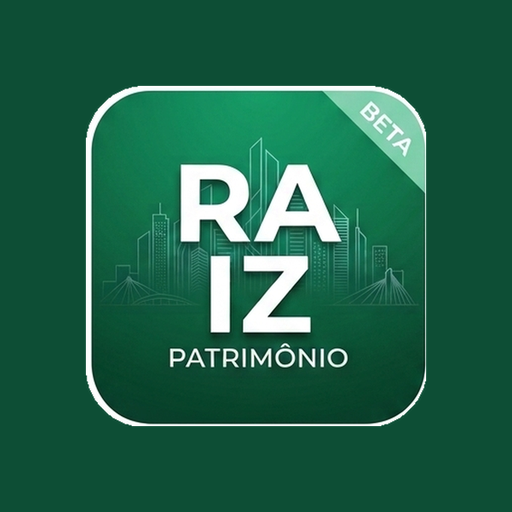
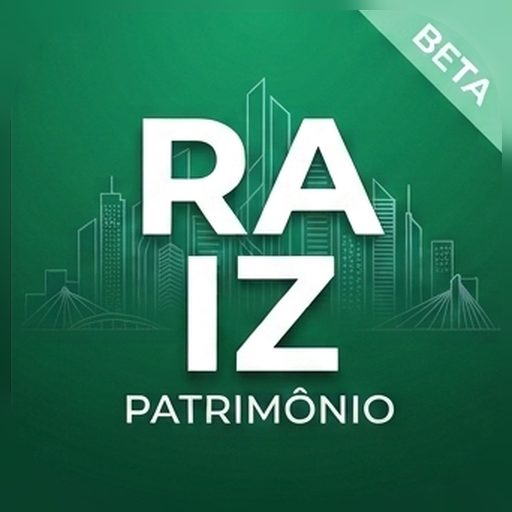
patrimonio v1.203.0 — 4 arquivo(s)
index.html (v1.203.0)
manifest.json
icon-maskable-192.png
icon-maskable-512.png

diff --git a/index.html b/index.html
@@ -6,9 +6,61 @@
    (base derivada do RUMO v7.4.2 — histórico de versões anteriores
    preservado abaixo para referência técnica)
 
-   VERSÃO: Beta v1.202.0
-   LINHAS: 14746
+   VERSÃO: Beta v1.203.0
+   LINHAS: 14844
    DATA: 18/09/2026
+   NOVIDADES (Beta v1.203.0) — execução da demanda f60fe32e (achados
+   deixados em aberto na entrega da v1.202.0) + 1 bug real achado pelo
+   Nicola em print: (1) manifest.json: background_color/theme_color
+   ("#0f172a"/"#1e40af", sobra de paleta antiga, não batiam com nenhum
+   token do Design System) trocados pra "#1e3a32" (--pine, a mesma cor
+   de fundo real da splash/header — --color-emerald-900 já é um alias
+   de --pine). (2) botão de IA da splash ganhou o chip de convite "Fale
+   com a Raiz IA" do protótipo aprovado (#splash-ia-tooltip): aparece só
+   na 1ª vez que a pessoa vê a splash NESTE aparelho (chaveLocal, mesmo
+   padrão de outras flags por instalação), some sozinho depois de ~6s ou
+   ao tocar em qualquer lugar da tela; sem localStorage (aba anônima),
+   simplesmente não aparece — não quebra o botão. Demanda f60fe32e
+   encerrada (fn_demanda_encerrar) com os 2 itens resolvidos. (3) BUG
+   REAL, achado root-cause (print do Nicola: ficha do ativo "Av. Faria
+   Lima, 3000" mostrando 2 chips "Documento" idênticos na aba Anexos em
+   vez do nome de cada categoria) — js/cofre-api.js listarCategorias()
+   filtrava só `cliente_id = clienteId`, que no Postgres NUNCA bate com
+   `cliente_id IS NULL`; as 34 categorias hoje cadastradas são TODAS
+   globais (catálogo padrão Raiz, nenhum cliente ainda tem categoria
+   própria), então estado.categorias vinha SEMPRE vazio pra QUALQUER
+   tenant — todo documento caía no fallback genérico "Documento"
+   (afetava também o sheet "Categorizar", que abria com a lista de
+   ações vazia). Corrigido pro mesmo `.or('cliente_id.is.null,cliente_id.eq.…')`
+   já usado em ativo_tipos/cofre_controle_subtipos/cofre_modelos_item_controle
+   — ver changelog completo em cofre-api.js v1.37.1. QUA-01: procurado o
+   mesmo padrão (`.eq('cliente_id'` sem `.or()`) no resto do arquivo —
+   nenhuma outra ocorrência do mesmo bug encontrada. (4) ÍCONE MASKABLE
+   v2 — Nicola testou a v1.202.0 no aparelho real e reportou que o
+   selo interno ainda aparecia como um "quadrado com cantos
+   arredondados" visível por cima do verde (a v1.202.0 só tinha
+   encolhido o selo pra 66,7% do canvas, mas não removeu a borda do
+   próprio selo). icon-maskable-192.png/512.png recompostos: máscara
+   geométrica "manter" (retângulo arredondado calculado a partir do
+   raio real de corte da máscara adaptativa do Android) preserva 100%
+   dos pixels internos (texto "RAIZ/PATRIMÔNIO", skyline, fita "BETA"
+   intactos) e substitui só o anel/cantos da borda por extrapolação do
+   próprio verde vizinho (nearest-neighbor + suavização), sem branco/
+   transparência residual — resultado é uma superfície verde uniforme
+   sem nenhuma borda interna visível, testado sob máscara circular e
+   squircle. (5) TELA "escolha qual entrar" (multi-empresa) — Nicola
+   reportou (print) o botão dourado de IA sobrepondo o título "GESTÃO
+   PATRIMONIAL INTELIGENTE" quando a lista de empresas era longa: o
+   botão é `position:absolute` fixo na tela, mas a splash inteira (foto+
+   título+lista) rolava por baixo dele como uma coluna só, então o
+   header acabava passando por trás do botão. Corrigido sem redesenhar
+   o botão: nova classe `.splash-lista-ativa` (aplicada só quando a
+   seleção de empresa está visível) transforma o layout em cabeçalho
+   fixo + rodapé fixo + só `#lista-selecao-empresa` rola internamente
+   (flex `min-height:0`), com `scrollbar-width:none`/`::-webkit-
+   scrollbar{display:none}` pra não mostrar barra de rolagem; removida
+   também a borda visível do `<select>` de filtro de planos. Validado
+   via Playwright com lista de 12 empresas simulando rolagem no meio.
    NOVIDADES (Beta v1.202.0) — 3 ajustes explícitos do Nicola na tela de
    abertura (splash/login), proposta+protótipo aprovados em sessão
    separada de UX antes desta entrega: (1) ícone do app (icon-maskable-
@@ -120,18 +172,8 @@
    (retomada em ccd04ad4). Achado incidental (QUA): dev_carregarAcessos/
    dev_limparAcessos eram código morto (array `acessos` permanentemente
    vazio desde a aposentadoria do Apps Script) — removidos junto.
-   NOVIDADES (Beta v1.198.0) — Caminho B, fechamento do escopo "tipo de
-   imóvel" das minutas: tipo_ativo (categoria macro) é grosso demais pra
-   isso (só 2 valores pra imóvel), o nível certo é tipo_detalhe_id — mesma
-   granularidade fina do tipos_imovel legado (Casa, Loja, Sala...), catálogo
-   novo (ativo_tipos) deduplicado. minutas_contrato ganhou tipo_detalhe_id;
-   as 3 minutas ativas com escopo='tipo_imovel' foram remapeadas por nome
-   (Sala Comercial→Sala, consolidado no catálogo novo); fn_resolver_minuta_id
-   ajustada; leitura/escrita de minuta (index.html) e o seletor/casamento em
-   js/minutas.js (v1.1.0) passam a usar o catálogo novo. Detalhe: memória do
-   projeto, área "Caminho B".
    ------------------------------------------------------------------
-   Versões anteriores (v1.197.0 … v1.197.0): CHANGELOG_APP.md, na raiz do
+   Versões anteriores (v1.198.0 … v1.198.0): CHANGELOG_APP.md, na raiz do
    repositório — o gerar_versoes.py rola pra lá automaticamente tudo além
    das 5 versões mais recentes deste cabeçalho.
 
@@ -155,7 +197,7 @@
          O navegador aplica o mapa também aos imports estáticos dentro dos
          módulos (cofre-app.js → ./cofre-api.js etc.). -->
     <!-- RZ-IMPORTMAP:INICIO -->
-    <script type="importmap">{"imports":{"./js/cadastros.js":"./js/cadastros.js?v=1.0.1","./js/financeiro.js":"./js/financeiro.js?v=1.7.2","./js/contratos.js":"./js/contratos.js?v=1.6.0","./js/minutas.js":"./js/minutas.js?v=1.0.0","./js/vitrine.js":"./js/vitrine.js?v=1.2.0","./js/imoveis.js":"./js/imoveis.js?v=1.5.0","./js/cofre-api.js":"./js/cofre-api.js?v=1.37.0","./js/cofre-app.js":"./js/cofre-app.js?v=1.32.3","./js/cofre-ativos.js":"./js/cofre-ativos.js?v=1.45.0","./js/cofre-controles.js":"./js/cofre-controles.js?v=1.25.0","./js/cofre-documentos.js":"./js/cofre-documentos.js?v=2.15.0","./js/cofre-imagem.js":"./js/cofre-imagem.js?v=1.1.0","./js/cofre-estado.js":"./js/cofre-estado.js?v=1.5.0","./js/cofre-navegacao.js":"./js/cofre-navegacao.js?v=1.7.1","./js/cofre-ui.js":"./js/cofre-ui.js?v=1.3.0","./js/cofre-validacoes.js":"./js/cofre-validacoes.js?v=2.0.0","./js/comum-licenca.js":"./js/comum-licenca.js?v=1.3.1","./js/comum-minha-empresa.js":"./js/comum-minha-empresa.js?v=1.5.0","./js/comum-pessoas.js":"./js/comum-pessoas.js?v=1.201.0","./js/comum-sobre.js":"./js/comum-sobre.js?v=1.3.0","./js/comum-endereco.js":"./js/comum-endereco.js?v=1.0.0","./js/ativos/ativos-boot.js":"./js/ativos/ativos-boot.js?v=1.3.0","./js/ativos/ativos-markup.js":"./js/ativos/ativos-markup.js?v=1.40.0"}}</script>
+    <script type="importmap">{"imports":{"./js/cadastros.js":"./js/cadastros.js?v=1.0.1","./js/financeiro.js":"./js/financeiro.js?v=1.7.2","./js/contratos.js":"./js/contratos.js?v=1.6.0","./js/minutas.js":"./js/minutas.js?v=1.0.0","./js/vitrine.js":"./js/vitrine.js?v=1.2.0","./js/imoveis.js":"./js/imoveis.js?v=1.5.0","./js/cofre-api.js":"./js/cofre-api.js?v=1.37.1","./js/cofre-app.js":"./js/cofre-app.js?v=1.32.3","./js/cofre-ativos.js":"./js/cofre-ativos.js?v=1.45.0","./js/cofre-controles.js":"./js/cofre-controles.js?v=1.25.0","./js/cofre-documentos.js":"./js/cofre-documentos.js?v=2.15.0","./js/cofre-imagem.js":"./js/cofre-imagem.js?v=1.1.0","./js/cofre-estado.js":"./js/cofre-estado.js?v=1.5.0","./js/cofre-navegacao.js":"./js/cofre-navegacao.js?v=1.7.1","./js/cofre-ui.js":"./js/cofre-ui.js?v=1.3.0","./js/cofre-validacoes.js":"./js/cofre-validacoes.js?v=2.0.0","./js/comum-licenca.js":"./js/comum-licenca.js?v=1.3.1","./js/comum-minha-empresa.js":"./js/comum-minha-empresa.js?v=1.5.0","./js/comum-pessoas.js":"./js/comum-pessoas.js?v=1.201.0","./js/comum-sobre.js":"./js/comum-sobre.js?v=1.3.0","./js/comum-endereco.js":"./js/comum-endereco.js?v=1.0.0","./js/ativos/ativos-boot.js":"./js/ativos/ativos-boot.js?v=1.3.0","./js/ativos/ativos-markup.js":"./js/ativos/ativos-markup.js?v=1.40.0"}}</script>
     <!-- RZ-IMPORTMAP:FIM -->
 
     <!-- ===== PWA: permite "instalar" o app no celular (Android e iPhone) ===== -->
@@ -440,6 +482,26 @@
             0%   { transform:scale(1); opacity:.5; }
             100% { transform:scale(1.9); opacity:0; }
         }
+
+        /* v1.203.0 — BUG REAL achado pelo Nicola em print: com a lista de
+           "escolha a empresa" longa (9+ itens), a splash inteira rolava
+           (era 1 coluna só, centralizada) e o botão de IA — position:
+           absolute relativo à splash, não ao conteúdo — ficava PARADO na
+           tela enquanto o cabeçalho/foto rolavam por baixo dele,
+           sobrepondo o texto. Pedido explícito: cabeçalho + foto + rodapé
+           + filtro fixos, só a LISTA de empresas rola, sem borda de
+           componente nem barra de rolagem visível. Classe aplicada só
+           durante mostrarSelecaoEmpresa() (removida ao sair dela); login
+           e "definir senha" continuam exatamente como sempre foram —
+           coluna curta, centralizada, sem essa divisão em 3 regiões. */
+        #splash-screen.splash-lista-ativa{ overflow:hidden; justify-content:flex-start; }
+        #splash-screen.splash-lista-ativa #splash-conteudo{ flex:1; min-height:0; display:flex; flex-direction:column; }
+        #splash-screen.splash-lista-ativa #area-selecao-empresa{ flex:1; min-height:0; display:flex; flex-direction:column; }
+        #splash-screen.splash-lista-ativa #lista-selecao-empresa{
+            flex:1; min-height:0; overflow-y:auto;
+            scrollbar-width:none; -ms-overflow-style:none; /* Firefox/IE — sem barra visível */
+        }
+        #splash-screen.splash-lista-ativa #lista-selecao-empresa::-webkit-scrollbar{ display:none; } /* Chrome/Safari/WebView */
 
 
         /* Barra inferior (v1.39.8) — indicador do item ativo: barrinha fina no
@@ -1326,12 +1388,21 @@
              brass + sparkles do .rz-hdr .rz-ia pós-login (REGRAS §15/16) —
              ver CSS de #btn-falar-bot-splash acima ("v1.202.0") pra
              posição/animação. Handler e telemetria (abrirBotWhatsapp,
-             eventos_landing) intocados — só visual e posição mudaram. -->
+             eventos_landing) intocados — só visual e posição mudaram.
+             v1.203.0 — chip de convite (#splash-ia-tooltip) some/aparece
+             via JS em window.onload (chaveLocal, 1ª vez só neste
+             aparelho); some sozinho depois de alguns segundos ou ao tocar
+             no botão. Sem JS/localStorage, fica oculto pra sempre — nunca
+             atrapalha o botão em si. -->
+        <div id="splash-ia-tooltip" class="hidden" style="position:absolute; top:20px; right:118px; z-index:10; background:#fff; color:#17211e; font-size:12px; font-weight:600; border-radius:999px; padding:8px 14px; box-shadow:0 1px 2px rgba(23,33,30,.06), 0 4px 14px rgba(23,33,30,.05); white-space:nowrap;">
+            Fale com a Raiz IA
+            <div style="position:absolute; right:-5px; top:50%; transform:translateY(-50%) rotate(45deg); width:10px; height:10px; background:#fff;"></div>
+        </div>
         <button id="btn-falar-bot-splash" onclick="abrirBotWhatsapp()" title="Falar com o R.AI.Z no WhatsApp" aria-label="Falar com o R.AI.Z no WhatsApp">
             <svg data-lucide="sparkles" style="width:20px;height:20px" aria-hidden="true"></svg>
         </button>
 
-        <div class="w-full max-w-sm text-center space-y-5 py-8">
+        <div id="splash-conteudo" class="w-full max-w-sm text-center space-y-5 py-8">
 
             <div class="w-full h-36 rounded-2xl bg-cover bg-center shadow-2xl border border-emerald-700" style="background-image: url('https://images.unsplash.com/photo-1486406146926-c627a92ad1ab?auto=format&fit=crop&w=800&q=80');"></div>
 
@@ -1376,7 +1447,7 @@
                 <p class="text-emerald-100 text-sm text-center px-2 mb-2">Você tem acesso a mais de uma empresa. Escolha qual entrar:</p>
 
                 <!-- FASE 1A (v1.39.0) — filtro por plano, útil quando a lista crescer -->
-                <select id="filtro-plano-selecao-empresa" onchange="renderizarListaSelecaoEmpresa()" class="w-full bg-emerald-950 text-emerald-100 text-xs font-semibold rounded-lg px-3 py-2 border border-emerald-800 mb-1">
+                <select id="filtro-plano-selecao-empresa" onchange="renderizarListaSelecaoEmpresa()" class="w-full bg-emerald-950 text-emerald-100 text-xs font-semibold rounded-lg px-3 py-2 mb-1">
                     <option value="todos">Todos os planos</option>
                     <option value="trial">Trial</option>
                     <option value="standard">Standard</option>
@@ -3500,7 +3571,7 @@
         // texto certo toda vez (esqueci 5 versões seguidas, de v1.37.1 até
         // v1.38.3). Agora só precisa mudar UMA linha aqui a cada release;
         // window.onload aplica nos dois lugares automaticamente.
-        const APP_VERSAO = "Beta v1.202.0"; // mantido sincronizado com o cabeçalho — ver nota v1.178.8 acima sobre por que isso importa
+        const APP_VERSAO = "Beta v1.203.0"; // mantido sincronizado com o cabeçalho — ver nota v1.178.8 acima sobre por que isso importa
 
         // ====================================================================
         // v1.105.0 — HELPERS DE SUPERFÍCIE DA GRAMÁTICA ÚNICA
@@ -7137,6 +7208,7 @@
             document.getElementById('area-login-supabase').classList.add('hidden');
             const areaSelecao = document.getElementById('area-selecao-empresa');
             if (areaSelecao) areaSelecao.classList.add('hidden');
+            document.getElementById('splash-screen')?.classList.remove('splash-lista-ativa'); // v1.203.0
             statusEl.textContent = '';
 
             registrarLog('login', { nome: socioLogado, perfil: perfilLogado, empresa: CONFIG_CLIENTE.nomeEmpresa });
@@ -7259,6 +7331,12 @@
 
             const area = document.getElementById('area-selecao-empresa');
             area.classList.remove('hidden');
+            // v1.203.0 — cabeçalho/foto/filtro/rodapé fixos, só a lista rola
+            // (ver CSS #splash-screen.splash-lista-ativa) — bug real achado
+            // pelo Nicola: botão de IA ficava sobreposto ao texto do
+            // cabeçalho quando a lista era longa o bastante pra rolar a
+            // splash inteira.
+            document.getElementById('splash-screen')?.classList.add('splash-lista-ativa');
 
         }
 
@@ -7727,7 +7805,7 @@
 
         function voltarParaSplash() {
 
-            document.getElementById('splash-screen').classList.remove('hidden', 'opacity-0');
+            document.getElementById('splash-screen').classList.remove('hidden', 'opacity-0', 'splash-lista-ativa'); // v1.203.0 — defensivo, ver CSS splash-lista-ativa
 
             document.getElementById('main-header').classList.add('hidden');
 
@@ -13444,6 +13522,26 @@
 
             // Design System (Sprint 1) — inicializa ícones Lucide da splash/login.
             if (typeof lucide !== 'undefined') lucide.createIcons();
+
+            // v1.203.0 — chip "Fale com a Raiz IA" (#splash-ia-tooltip) some
+            // só na 1ª vez que a splash aparece NESTE aparelho (chaveLocal,
+            // mesmo padrão de outras flags por instalação — ver comentário
+            // de chaveLocal() acima). Nunca mais reaparece sozinho depois
+            // disso; some antes também se a pessoa tocar no botão ou em
+            // qualquer lugar da tela. try/catch porque localStorage pode
+            // não existir (aba anônima/modo restrito) — nesse caso o chip
+            // simplesmente não aparece, o botão continua funcionando normal.
+            try {
+                const tooltipIA = document.getElementById('splash-ia-tooltip');
+                const chaveTooltipIA = chaveLocal('splash_ia_tooltip_visto');
+                if (tooltipIA && !localStorage.getItem(chaveTooltipIA)) {
+                    tooltipIA.classList.remove('hidden');
+                    localStorage.setItem(chaveTooltipIA, '1');
+                    const esconderTooltipIA = () => tooltipIA.classList.add('hidden');
+                    setTimeout(esconderTooltipIA, 6000);
+                    document.getElementById('splash-screen')?.addEventListener('click', esconderTooltipIA, { once: true });
+                }
+            } catch (e) { /* localStorage indisponível — chip fica oculto, sem quebrar nada */ }
 
             // v1.42.0 — MODO PÚBLICO: ?contratar=<token> pula TODO o fluxo de
             // login/app normal e mostra só a tela de preenchimento de dados
